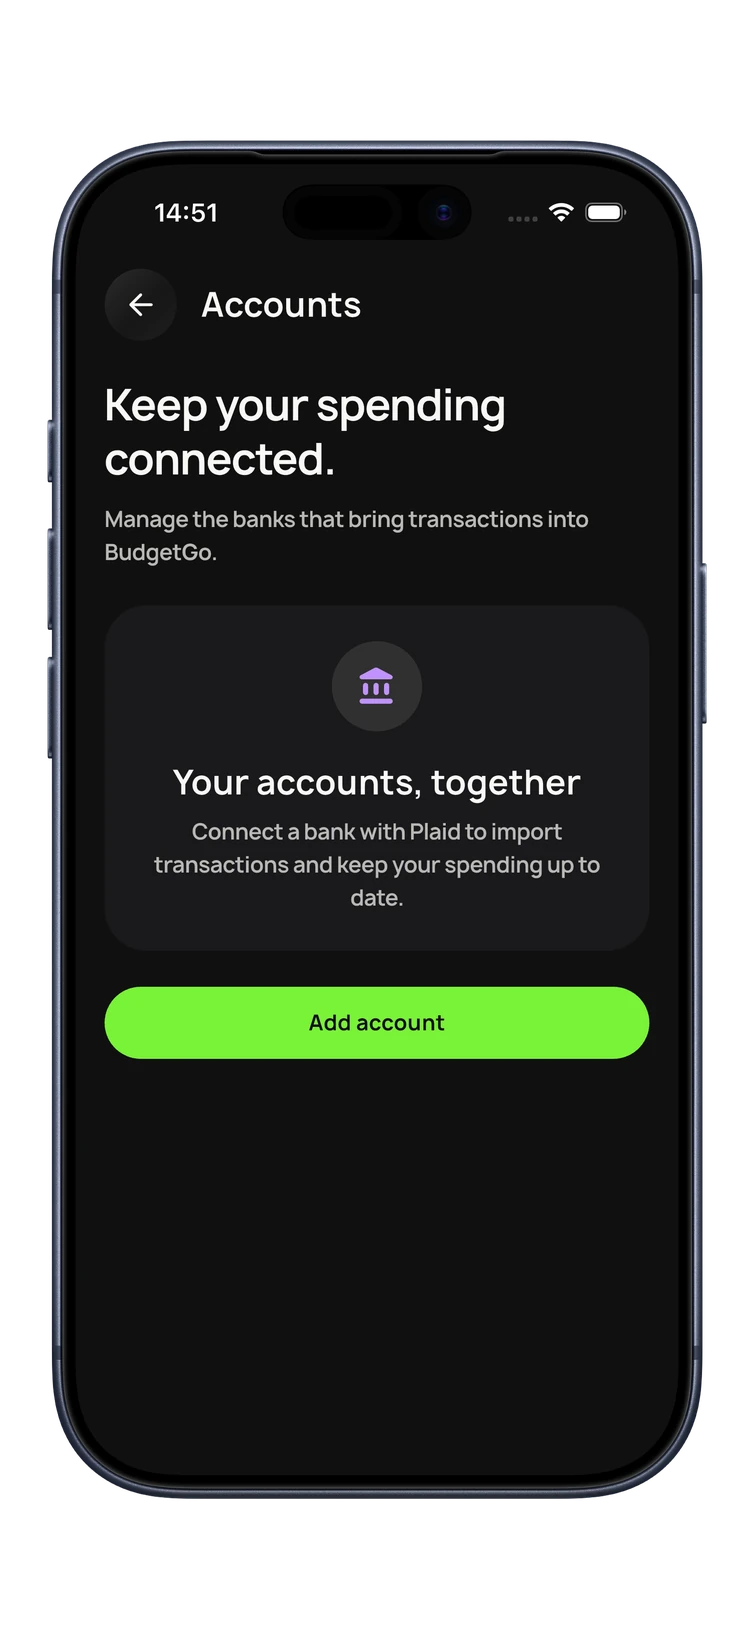
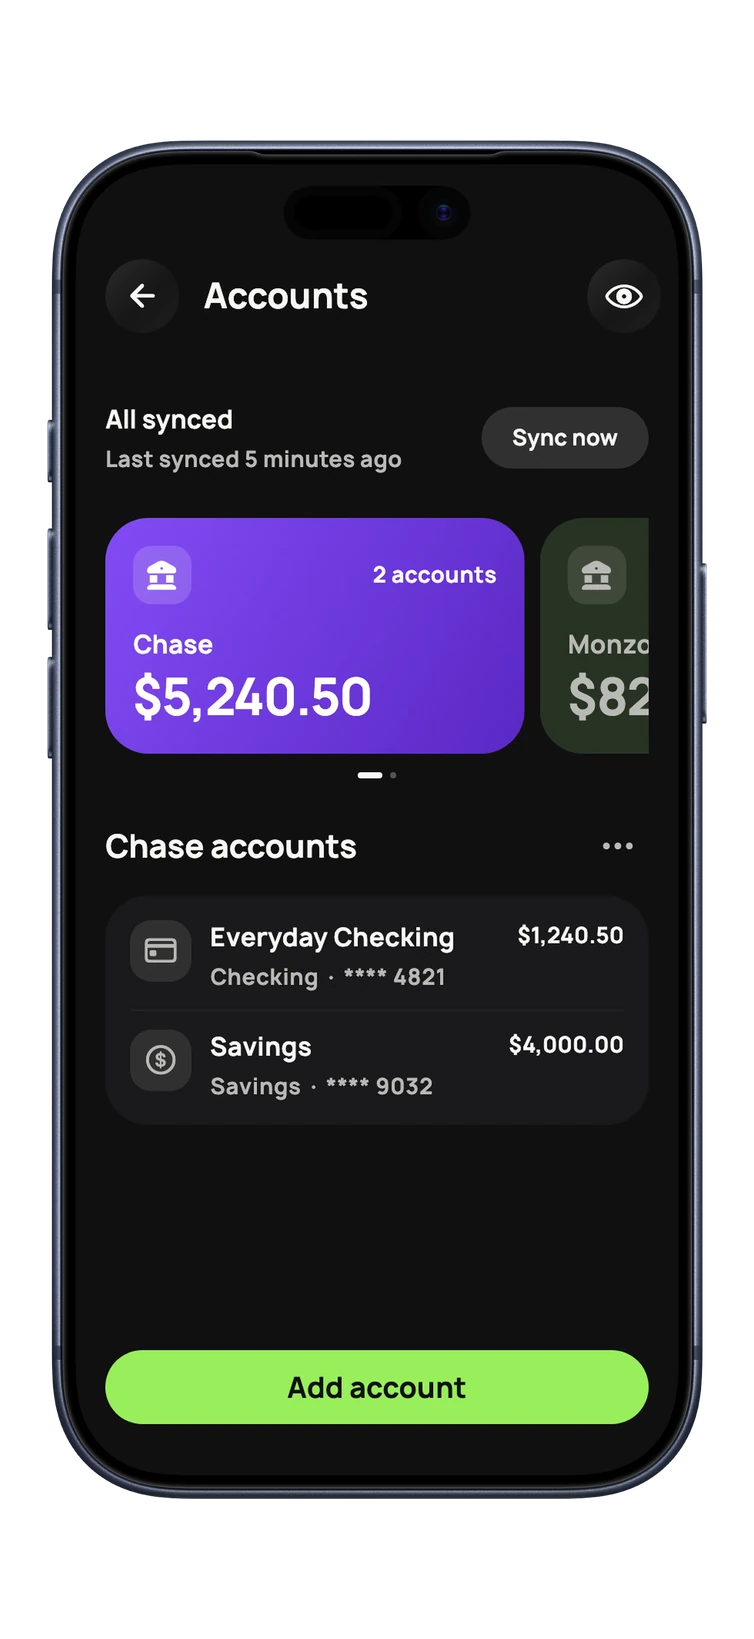
feat: update accounts screen and recap card

diff --git a/src/css/app-site-sections.css b/src/css/app-site-sections.css
@@ -80,9 +80,6 @@ html:not(.motion) .sort-row .c { opacity: 1; transform: none; }
 .reel-intro { flex: none; width: min(520px, 82vw); margin-right: 48px; }
 .reel-intro .lead { margin-top: 24px; }
 .recap { display: flex; align-items: center; gap: 14px; margin-top: 36px; padding: 12px; border-radius: var(--radius-data); background: var(--recap); color: var(--on-recap); max-width: 460px; }
-.recap__mini { flex: none; display: grid; align-content: space-between; width: 70px; height: 90px; padding: 8px; border-radius: 14px; background: #291d50; color: #d8c5ef; font-size: 8px; transform: rotate(-4deg); }
-.recap__mini em { font-style: normal; }
-.recap__mini b { color: #f8f8f5; font-size: 12px; line-height: 1.1; }
 .recap__copy { flex: 1; display: grid; gap: 4px; }
 .recap__copy span { color: #6a350a; font-size: 10px; letter-spacing: 1.1px; text-transform: uppercase; }
 .recap__copy b { font-size: 18px; line-height: 1.2; letter-spacing: -.02em; }
@@ -425,8 +422,7 @@ html.motion .privacy__text .w { opacity: .18; }
   .story__number { font-size: 52px; }
   .reel-intro { width: 82vw; }
   .recap { gap: 10px; }
-  .recap__mini { display: none; }
-  .bento { grid-auto-rows: auto; }
+    .bento { grid-auto-rows: auto; }
   .widget { min-height: 220px; padding: 22px; }
   .widget__chart { width: calc(100% + 44px); max-width: none; margin: auto -22px -22px; }
   .cbars { margin: auto -22px 0; }
@@ -462,3 +458,13 @@ html.motion .privacy__text .w { opacity: .18; }
 .budget-card__foot { display: flex; justify-content: space-between; gap: 8px; font-size: 14px; }
 .budget-card__foot em { font-style: normal; opacity: .85; }
 .trend-line i { font-style: normal; color: var(--lime); }
+
+/* Recap card — the app's fanned mini stories: Pacing and Overspending behind, Savings in front. */
+.recap__stack { position: relative; flex: none; width: 108px; height: 104px; }
+.recap__card { position: absolute; top: 6px; display: flex; flex-direction: column; width: 62px; height: 88px; padding: 7px; border-radius: 12px; color: #f8f8f5; overflow: hidden; box-shadow: 0 8px 18px rgba(50, 22, 0, .35); }
+.recap__card em { font-style: normal; font-size: 9px; opacity: .85; }
+.recap__card svg { width: 100%; height: auto; margin-top: auto; }
+.recap__card b { margin-top: 4px; font-size: 18px; letter-spacing: -.03em; line-height: 1; }
+.recap__card--pace { left: 0; background: #17313a; transform: rotate(-12deg); }
+.recap__card--over { right: 0; background: #401e25; transform: rotate(10deg); }
+.recap__card--save { left: 22px; top: 0; z-index: 1; width: 66px; height: 96px; background: #153b2d; }

diff --git a/index.html b/index.html
@@ -127,7 +127,7 @@
   <div class="wrap banks__grid">
     <div class="banks__stage">
       <div class="iphone iphone--banks">
-        <img src="src/images/app-live/mockup-accounts.webp" alt="BudgetGo Accounts: keep your spending connected, connect a bank with Plaid" width="754" height="1639" loading="lazy" />
+        <img src="src/images/app-live/mockup-accounts.webp" alt="BudgetGo Accounts: Chase and Monzo connected and synced, with Everyday Checking and Savings balances" width="754" height="1639" loading="lazy" />
       </div>
       <div class="bank-stack" aria-hidden="true">
         <div class="bank-card"><span class="bank-card__icon"><svg><use href="#i-bank"/></svg></span><span><b>Everyday checking</b><em>Checking ··4821</em></span><b class="bank-card__bal">$3,240.18</b></div>
@@ -178,8 +178,12 @@
         <h2 id="insights-title" data-split>Your spending,<br /><span>told as a story.</span></h2>
         <p class="lead">Short stories about your money: what’s on pace and where to save.</p>
         <div class="recap">
-          <div class="recap__mini"><em>Comparison</em><b>A new period</b></div>
-          <div class="recap__copy"><span>Your recap</span><b>A new period. A new perspective.</b><em>3 stories · &lt;1 min</em></div>
+          <div class="recap__stack" aria-hidden="true">
+            <span class="recap__card recap__card--pace"><em>Pacing</em><svg viewBox="0 0 80 48"><path d="M6 41a34 34 0 0 1 68 0" fill="none" stroke="#25535F" stroke-width="7" stroke-linecap="round"/><path d="M6 41A34 34 0 0 1 62 15" fill="none" stroke="#90DEED" stroke-width="7" stroke-linecap="round"/></svg><b>$</b></span>
+            <span class="recap__card recap__card--over"><em>Over</em><svg viewBox="0 0 80 36"><path d="M4 8h72M4 20h60" stroke="#FFB3AA" stroke-width="6" stroke-linecap="round"/></svg></span>
+            <span class="recap__card recap__card--save"><em>Savings</em><svg viewBox="0 0 80 32"><path d="M5 27 18 22 30 24 42 14 54 14 66 9 75 3" fill="none" stroke="#9CE5B9" stroke-width="5" stroke-linecap="round" stroke-linejoin="round"/></svg><b>$28</b></span>
+          </div>
+          <div class="recap__copy"><span>Your recap</span><b>Small shifts. More possibilities.</b><em>4 stories · &lt;1 min</em></div>
           <span class="recap__play"><svg aria-hidden="true"><use href="#i-play"/></svg></span>
         </div>
       </div>
